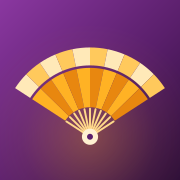
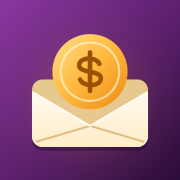
Cambia el icono: un sobre con una moneda en lugar del abanico
Nuevo icono (SVG y PNG) con un sobre del que asoma una moneda dorada, y la
misma marca dentro de la app, en el encabezado y en la tarjeta del saldo.
Al conectar el buzón se acepta también la autorización completa copiada
desde la app, para volver a conectarlo sin buscar el token.

Claude-Session: https://claude.ai/code/session_01FAWFp8utfbnXtJC9v5mBSy

diff --git a/index.html b/index.html
@@ -12,16 +12,16 @@
 <meta name="theme-color" content="#f3f1f5" media="(prefers-color-scheme: light)">
 <meta name="theme-color" content="#130d18" media="(prefers-color-scheme: dark)">
 <link rel="manifest" href="manifest.webmanifest">
-<link rel="icon" type="image/svg+xml" href="icons/icon.svg">
-<link rel="apple-touch-icon" href="icons/apple-touch-icon.png">
+<link rel="icon" type="image/svg+xml" href="icons/icon.svg?v=2">
+<link rel="apple-touch-icon" href="icons/apple-touch-icon.png?v=2">
 <!--STANDALONE:END-->
 <link rel="preconnect" href="https://fonts.googleapis.com">
 <link rel="preconnect" href="https://fonts.gstatic.com" crossorigin>
 <link rel="stylesheet" href="https://fonts.googleapis.com/css2?family=Familjen+Grotesk:wght@500;600;700&family=Hanken+Grotesk:wght@400;500;600;700&display=swap">
 <style>
-/* Concepto: una cartola de bolsillo. Arriba el saldo, en una tarjeta ciruela con el abanico dorado;
+/* Concepto: una cartola de bolsillo. Arriba el saldo, en una tarjeta ciruela con el sobre y la moneda en dorado;
    debajo las dos acciones (actualizar desde el buzón de avisos, anotar un depósito) y el listado de movimientos,
-   cada uno con el saldo que dejó. Ciruela como acento, dorado solo en el abanico, verde solo para el dinero que entra. */
+   cada uno con el saldo que dejó. Ciruela como acento, dorado solo en esa marca, verde solo para el dinero que entra. */
 :root {
   --bg: #f3f1f5;
   --surface: #ffffff;
@@ -153,8 +153,8 @@ svg { display: block; }
   background: linear-gradient(135deg, var(--card-a), var(--card-b)); color: var(--on-card);
   display: flex; flex-direction: column; gap: 8px;
 }
-.hero-fan { position: absolute; right: -34px; bottom: -22px; width: 230px; height: auto; opacity: 0.2; pointer-events: none; color: var(--gold); }
-.hero > *:not(.hero-fan) { position: relative; z-index: 1; }
+.hero-mark { position: absolute; right: -26px; bottom: -34px; width: 190px; height: auto; opacity: 0.2; pointer-events: none; color: var(--gold); }
+.hero > *:not(.hero-mark) { position: relative; z-index: 1; }
 .hero-top { display: flex; align-items: center; justify-content: space-between; gap: 12px; min-height: 40px; }
 .hero .eyebrow { color: var(--on-card-muted); }
 .hero-btn {
@@ -334,9 +334,10 @@ svg { display: block; }
   // Si la app está en GitHub Pages, el buzón se sugiere en la misma cuenta
   var OWNER = /\.github\.io$/i.test(location.hostname) ? location.hostname.split('.')[0] : '';
 
-  var FAN = '<path d="M7.90 17.11L-1.90 12.12A15.60 15.60 0 0 1 1.56 7.61L8.92 15.78A4.60 4.60 0 0 0 7.90 17.11Z" fill="currentColor"/><path d="M8.92 15.78L1.56 7.61A15.60 15.60 0 0 1 6.41 4.64L10.35 14.91A4.60 4.60 0 0 0 8.92 15.78Z" fill="currentColor" opacity="0.5"/><path d="M10.35 14.91L6.41 4.64A15.60 15.60 0 0 1 12.00 3.60L12.00 14.60A4.60 4.60 0 0 0 10.35 14.91Z" fill="currentColor"/><path d="M12.00 14.60L12.00 3.60A15.60 15.60 0 0 1 17.59 4.64L13.65 14.91A4.60 4.60 0 0 0 12.00 14.60Z" fill="currentColor" opacity="0.5"/><path d="M13.65 14.91L17.59 4.64A15.60 15.60 0 0 1 22.44 7.61L15.08 15.78A4.60 4.60 0 0 0 13.65 14.91Z" fill="currentColor"/><path d="M15.08 15.78L22.44 7.61A15.60 15.60 0 0 1 25.90 12.12L16.10 17.11A4.60 4.60 0 0 0 15.08 15.78Z" fill="currentColor" opacity="0.5"/><circle cx="12" cy="19.2" r="2.2" fill="currentColor"/>';
-  var I_FAN = '<svg viewBox="-3 2.4 30 20" width="30" height="20" aria-hidden="true">' + FAN + '</svg>';
-  var I_FAN_BG = '<svg class="hero-fan" viewBox="-3 2.4 30 20" aria-hidden="true">' + FAN + '</svg>';
+  var MARK = '<circle cx="12" cy="8.4" r="5.4" fill="currentColor" opacity="0.5"/>' +
+    '<path d="M2.6 11.3 12 16.9l9.4-5.6v7.6a2 2 0 0 1-2 2H4.6a2 2 0 0 1-2-2z" fill="currentColor"/>';
+  var I_MARK = '<svg viewBox="0 0 24 24" width="28" height="28" aria-hidden="true">' + MARK + '</svg>';
+  var I_MARK_BG = '<svg class="hero-mark" viewBox="0 0 24 24" aria-hidden="true">' + MARK + '</svg>';
   var I_PLUS = '<svg viewBox="0 0 24 24" width="20" height="20" aria-hidden="true"><path d="M12 5v14M5 12h14" fill="none" stroke="currentColor" stroke-width="2.6" stroke-linecap="round"/></svg>';
   var I_MAIL = '<svg viewBox="0 0 24 24" width="22" height="22" aria-hidden="true"><rect x="3" y="5.5" width="18" height="13.5" rx="2.8" fill="none" stroke="currentColor" stroke-width="2.2"/><path d="M4 8l8 5.6L20 8" fill="none" stroke="currentColor" stroke-width="2.2" stroke-linecap="round" stroke-linejoin="round"/></svg>';
   var I_SORT = '<svg viewBox="0 0 24 24" width="18" height="18" aria-hidden="true"><path d="M8 5v14M8 19l-3.5-3.5M8 19l3.5-3.5M16 19V5M16 5l-3.5 3.5M16 5l3.5 3.5" fill="none" stroke="currentColor" stroke-width="2.2" stroke-linecap="round" stroke-linejoin="round"/></svg>';
@@ -715,7 +716,7 @@ svg { display: block; }
   }
   async function connectBox() {
     if (syncing || !sheet) return;
-    var repo = cleanRepo(val('f-repo')), token = val('f-token').trim();
+    var repo = cleanRepo(val('f-repo')), token = val('f-token').trim().replace(/^Bearer\s+/i, '');
     if (!REPO_RE.test(repo)) { setErr('Escribe el repositorio como usuario/nombre, por ejemplo ' + (OWNER || 'tu-usuario') + '/fan-avisos.'); return; }
     if (token.length < 20 || /\s/.test(token)) { setErr('Pega el token completo, tal como lo entrega GitHub.'); return; }
     var btn = document.getElementById('f-connect'), msgs, started = Date.now();
@@ -742,11 +743,11 @@ svg { display: block; }
 
   /* ---------- Vistas ---------- */
   function header() {
-    return '<header class="top"><span class="mark">' + I_FAN + '</span><div><div class="eyebrow">Cuenta · registro personal</div><h1>FAN</h1></div></header>';
+    return '<header class="top"><span class="mark">' + I_MARK + '</span><div><div class="eyebrow">Cuenta · registro personal</div><h1>FAN</h1></div></header>';
   }
 
   function hero(c) {
-    var h = '<section class="hero" aria-label="Saldo de la cuenta">' + I_FAN_BG + '<div class="hero-top"><span class="eyebrow">Saldo de la cuenta</span>';
+    var h = '<section class="hero" aria-label="Saldo de la cuenta">' + I_MARK_BG + '<div class="hero-top"><span class="eyebrow">Saldo de la cuenta</span>';
     if (!loading && cfg.at) h += '<button class="hero-btn" data-act="adjust">Ajustar</button>';
     h += '</div>';
     if (loading) {

diff --git a/sw.js b/sw.js
@@ -1,5 +1,5 @@
 // Service worker mínimo: deja la app disponible sin conexión.
-const CACHE = 'fan-v4';
+const CACHE = 'fan-v5';
 const ASSETS = [
   './',
   'index.html',

diff --git a/README.md b/README.md
@@ -98,4 +98,4 @@ El saldo que se muestra es el saldo ajustado más los movimientos posteriores a 
 
 ## Icono
 
-El icono es un diseño propio: un abanico dorado sobre fondo ciruela. No reproduce logotipos del banco, que pertenecen a sus dueños.
+El icono es un diseño propio: un sobre del que asoma una moneda dorada, sobre fondo ciruela. Representa el aviso del banco convertido en movimiento. No reproduce logotipos del banco, que pertenecen a sus dueños.
